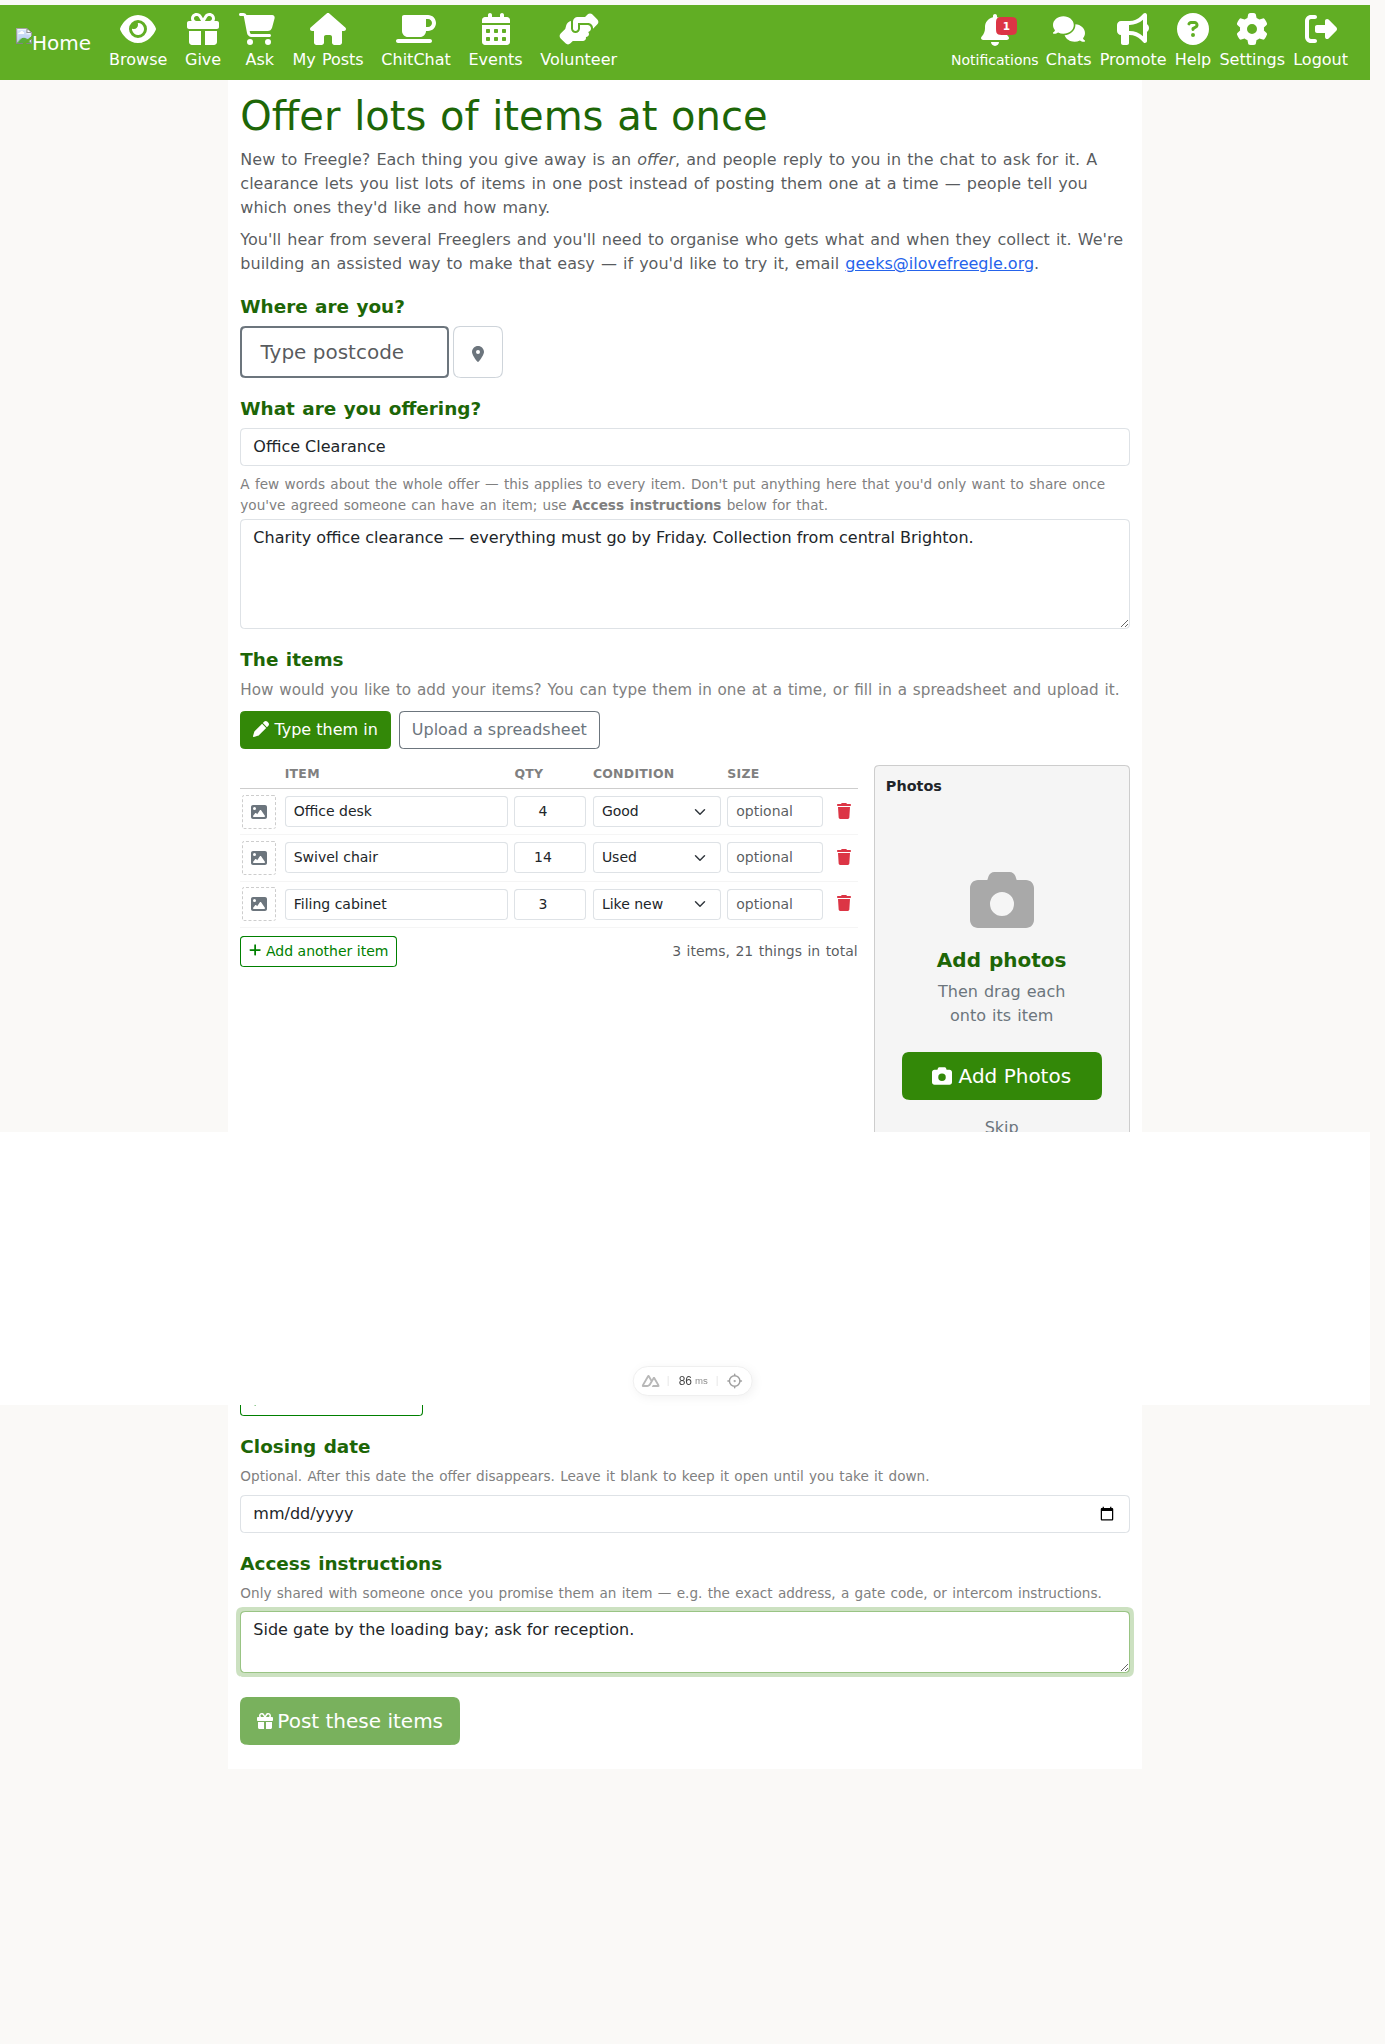
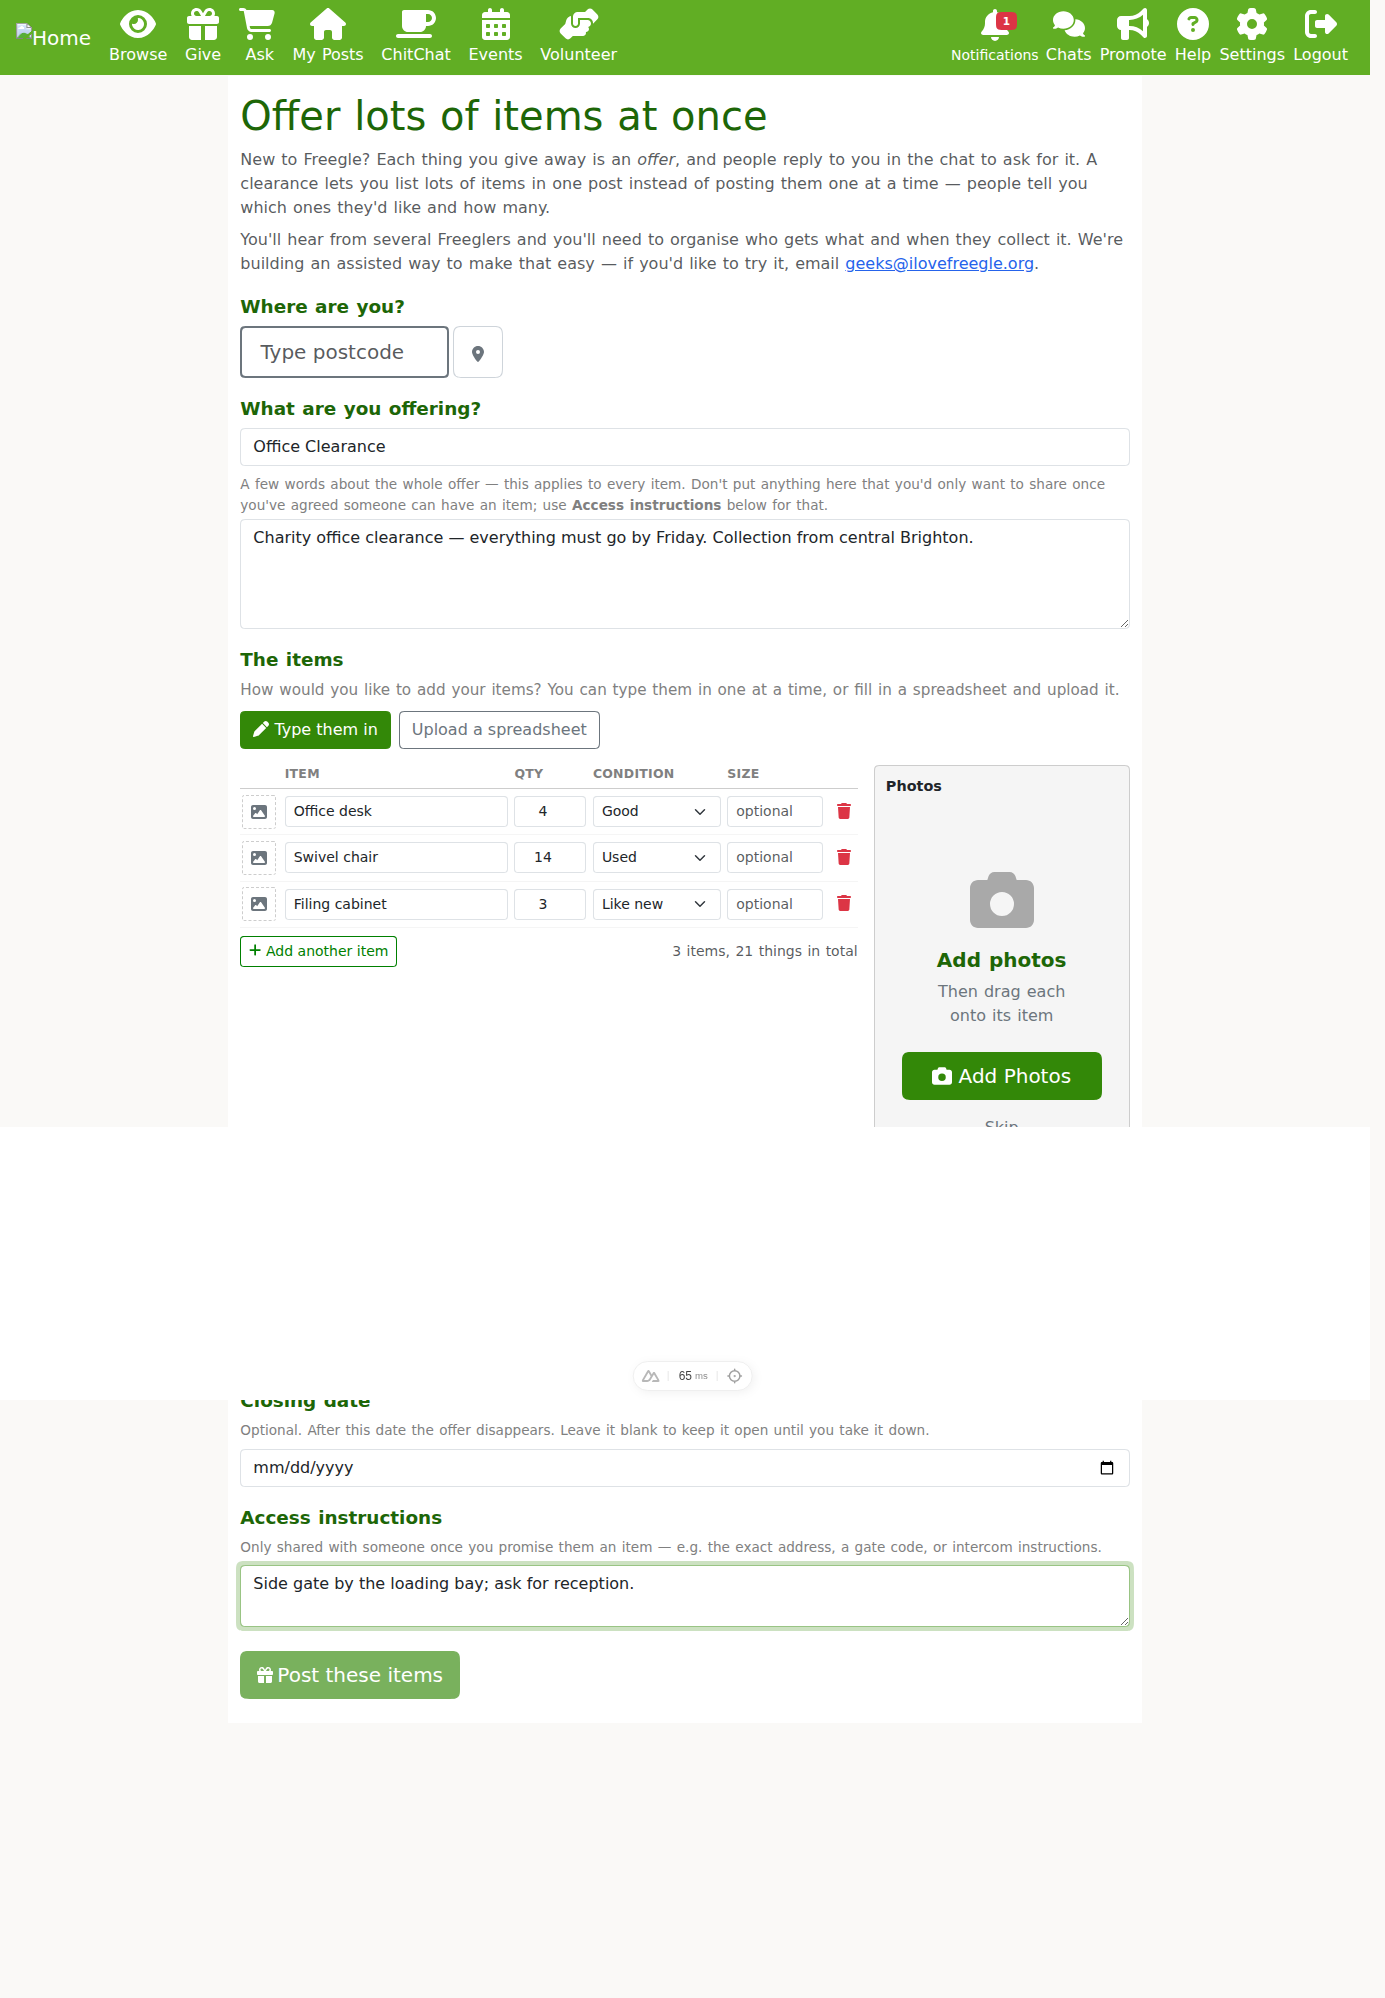
feat(pr-walkthrough): separate user/mod videos; test-data-only; mod shot; composer fixes
- Two videos per PR: storyboard.json (freegle users — both sides of the conversation) and
  storyboard-mod.json (moderators). render.mjs gains --storyboard; output name reflects it.
- Mod video: the ModTools "See how members will see this offer" bulk-preview modal. capture
  gains per-shot baseUrl (modtools host) + a scrollBy step (the approved list lazy-loads).
- Rule 4 (skill + masks): ONLY the test system + test users (dev-local, pw_*@test.com /
  'freegle') — so there is no real PII and nothing to mask; test names show as-is.
- Composer: dropped the flaky in-composer collection-slot callout (it rendered empty);
  annotate the closing-date/access-instructions fields instead.
- Regenerated golden-flow Playwright specs from the updated plan.

Note: the running dev container can lag the PR head (it serves the worktree working dir);
captures reflect what's actually running, and I don't git-modify the other agent's worktree.

diff --git a/pr-walkthrough/prs/pr-618/generated-tests/pr-618-golden-flows.spec.js b/pr-walkthrough/prs/pr-618/generated-tests/pr-618-golden-flows.spec.js
@@ -4,7 +4,7 @@
 // reached (the controls the video highlights). Seeded ids/emails come from env
 // (see env-from-testenvs.mjs / test-envs.json); TEST_BASE_URL sets the target.
 const { test, expect } = require('@playwright/test')
-const { loginViaHomepage } = require('./utils/user')
+const { loginViaHomepage, loginViaModTools } = require('./utils/user')
 
 test.describe('pr-618 golden flows (from walkthrough)', () => {
   test('golden flow: clearance-composer', async ({ page }) => {
@@ -26,10 +26,6 @@ test.describe('pr-618 golden flows (from walkthrough)', () => {
     await page.locator('[data-testid="item-name-0"]').first().fill(`Office desk`)
     await page.locator('[data-testid="item-qty-0"]').first().fill(`4`)
     await page.locator('[data-testid="item-condition-0"]').first().selectOption(`Good`)
-    await page.locator('[data-testid="slot-0"]').first().fill(`Tue 7 Apr, 10am–4pm`)
-    await page.locator('[data-testid="add-slot"]').first().click()
-    await page.waitForTimeout(200)
-    await page.locator('[data-testid="slot-1"]').first().fill(`Wed 8 Apr, 10am–2pm`)
     await page.locator('[data-testid="clearance-access"]').first().fill(`Side gate by the loading bay; ask for reception.`)
     await page.waitForTimeout(400)
     await expect(page.locator("input[placeholder*=\"postcode\" i]").first()).toBeVisible() // Pick your area first
@@ -38,7 +34,7 @@ test.describe('pr-618 golden flows (from walkthrough)', () => {
     await expect(page.locator('[data-testid="item-qty-0"]').first()).toBeVisible() // How many
     await expect(page.locator('[data-testid="item-condition-0"]').first()).toBeVisible() // Condition
     await expect(page.getByText("things in total").first()).toBeVisible() // 3 items, 21 things
-    await expect(page.locator('[data-testid="slot-0"]').first()).toBeVisible() // Offer set collection times
+    await expect(page.locator('[data-testid="clearance-access"]').first()).toBeVisible() // Private access instructions
   })
 
   test('golden flow: recipient-interest', async ({ page }) => {
@@ -61,9 +57,17 @@ test.describe('pr-618 golden flows (from walkthrough)', () => {
   })
 
   test('golden flow: mod-bulk-preview', async ({ page }) => {
-    await page.goto(`${process.env.MOD_MSG_ROUTE}`, { waitUntil: 'networkidle' })
+    await loginViaModTools(page, process.env.MOD_EMAIL, process.env.TEST_PASSWORD || 'freegle')
+    await page.goto(`/modtools/messages/approved`, { waitUntil: 'networkidle' })
+    await page.waitForTimeout(4000)
+    await page.waitForTimeout(1000)
+    await page.waitForTimeout(1000)
+    await page.waitForTimeout(1000)
+    await page.waitForTimeout(1000)
+    await page.waitForTimeout(1200)
+    await expect(page.locator('[data-testid="bulk-preview-btn"]').first()).toBeVisible()
     await page.locator('[data-testid="bulk-preview-btn"]').first().click()
-    await expect(page.locator(".modal-content").first()).toBeVisible()
-    await page.waitForTimeout(300)
+    await expect(page.locator("#modBulkPreviewModal .modal-content").first()).toBeVisible()
+    await page.waitForTimeout(800)
   })
 })

diff --git a/.claude/skills/pr-walkthrough-video/SKILL.md b/.claude/skills/pr-walkthrough-video/SKILL.md
@@ -16,11 +16,18 @@ script; the tooling does the mechanical parts and measures the coordinates.** Fu
    No code, data models, APIs, migrations, diff stats. (A `code` scene type exists but is off.)
 2. **Capture LIVE code, never the PR's embedded screenshots** — they go stale (fields get
    added/moved). The tool drives a *preexisting running worktree* of the PR, read-only.
-3. **Show EVERY affected party.** Many features touch more than one role — two Freeglers (a
-   giver *and* a recipient), or a Freegler *and* a moderator. Before filming, list the parties a
-   change affects and show **each side**. A clearance isn't just the giver posting and the
-   recipient ticking items — it's also the **giver receiving** the one consolidated message, and
-   the **mod** previewing the bulk post. Don't film only one side of a two-sided interaction.
+3. **Show EVERY affected party — but freegle users and moderators go in SEPARATE videos.**
+   Many features touch more than one role. Two Freeglers (a giver *and* a recipient) share an
+   audience → same video, both sides shown (a clearance is the giver posting, the recipient
+   ticking items, AND the giver receiving the one consolidated message). A **moderator** is a
+   different audience → its own video (e.g. the ModTools bulk-offer preview). One PR can have
+   several storyboards → several videos: `storyboard.json` (users) + `storyboard-mod.json`
+   (mods); render with `--storyboard <file>`.
+4. **Only ever use the TEST system + test users — never live/production data.** Drive a test
+   worktree with seeded test accounts (e.g. `pw_*@test.com`, password `freegle`) and use
+   `dev-local` (local API), not `dev-live`. Because everything is test data there is no real PII,
+   so **no masking is needed** — test names like "PW User2" can show as-is; don't mask or
+   annotate them.
 
 ## What you decide vs what the tool does
 
@@ -96,7 +103,7 @@ script; the tooling does the mechanical parts and measures the coordinates.** Fu
   `boundingBox` trap) and it scrolls to top before the shot so a sticky nav doesn't overlap.
 - **Repeated-row editors** sometimes *prepend* new rows (`unshift`) — fill index 0 in reverse
   display order. Check the component if rows don't populate.
-- **PII**: `masks.json` pixelates regions (fractions). Logged-in views often show no poster, so
-  no mask is needed — but always check the captured image for names/avatars/emails.
+- **PII**: not a concern when you follow rule 4 (test data only) — leave `masks.json` regions
+  empty and don't annotate masking. The pixelate capability exists only as a rare safety net.
 - **`--analyzer claude`** can draft the storyboard from the diff+tests (spends tokens; opt-in).
 - The worked reference is `prs/pr-618/` (bulk-offer clearance) — copy its shape for a new PR.
